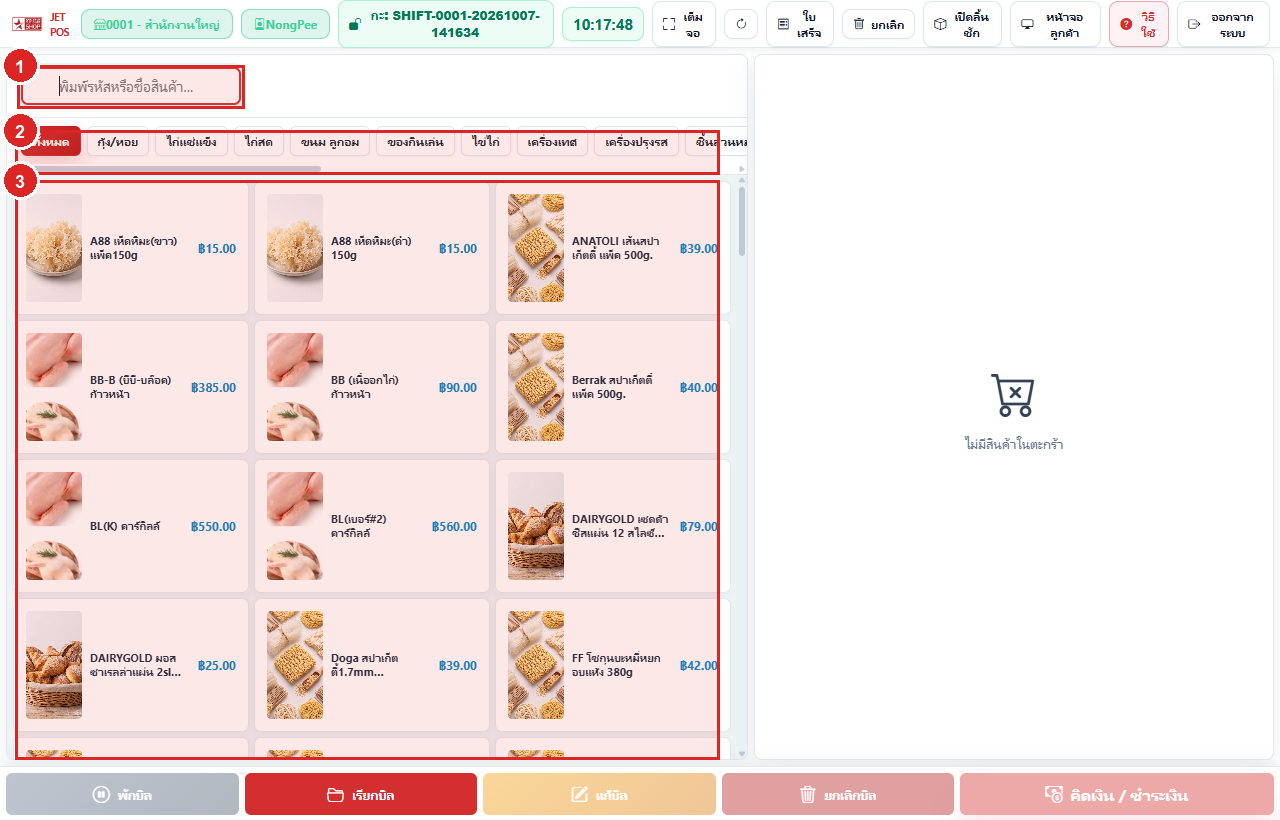
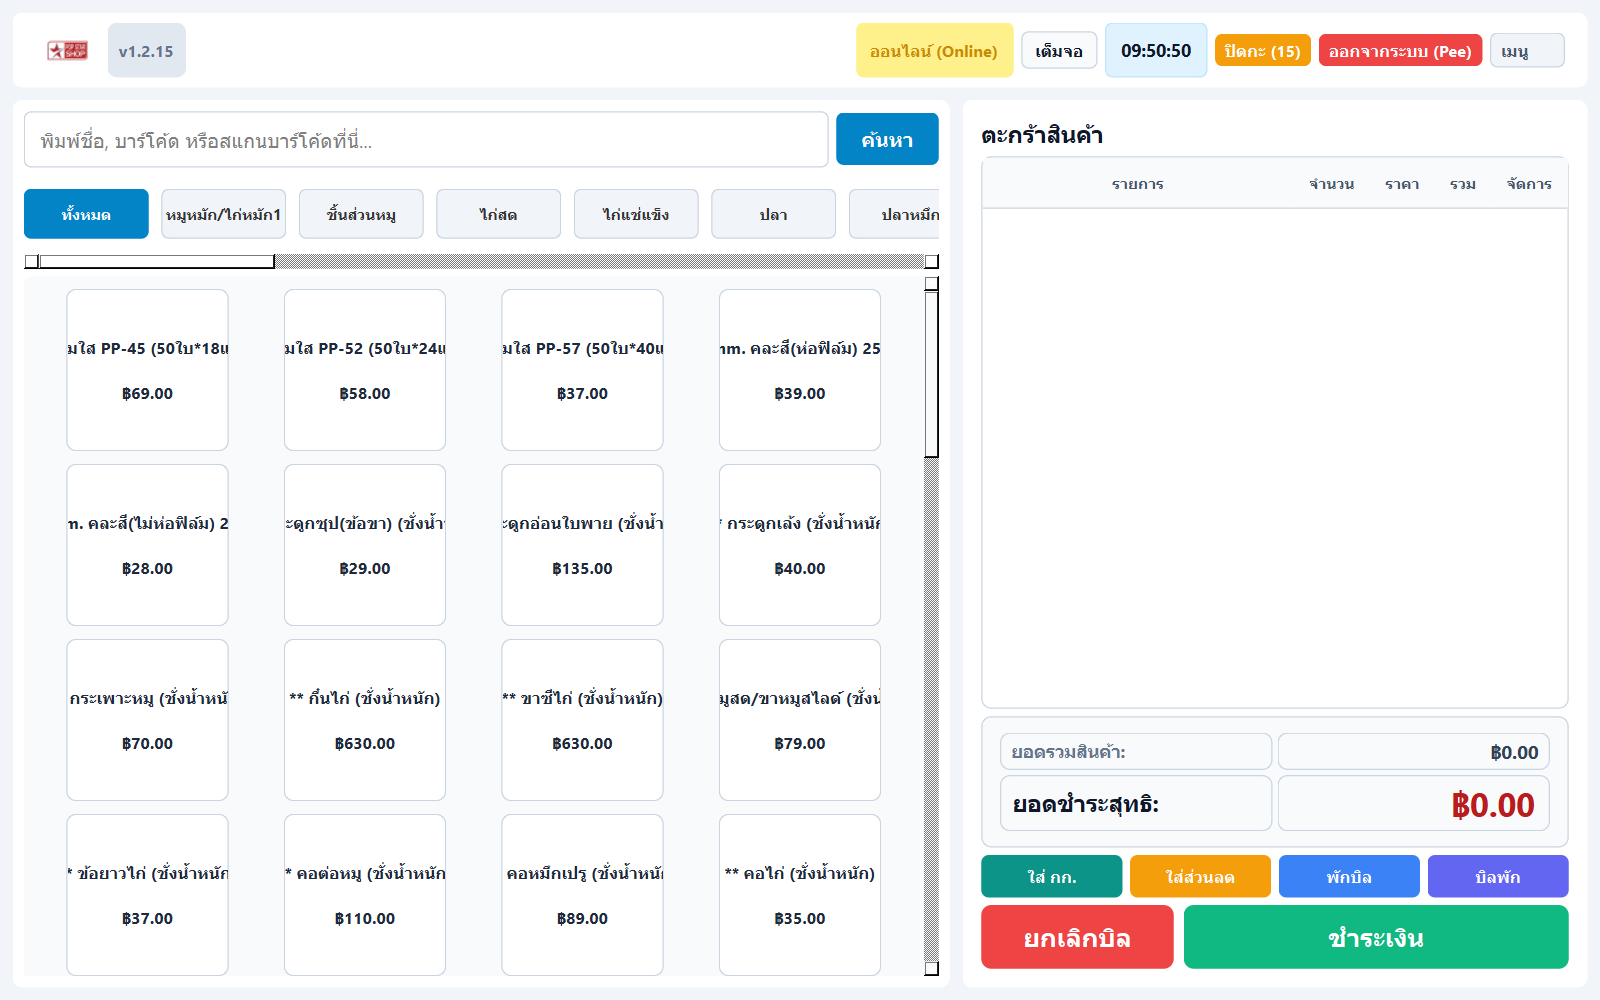
docs: replace all old manual images with real screenshots of the current new app

diff --git a/README.md b/README.md
@@ -44,7 +44,7 @@
 
 ## คู่มือและวิธีติดตั้งโปรแกรม (Installation Guide)
 
-สามารถดาวน์โหลดตัวติดตั้งล่าสุดได้จากเมนู [Releases (v1.2.15)](https://github.com/nongpee321/posCentral/releases/tag/v1.2.15)
+สามารถดาวน์โหลดไฟล์ติดตั้งเวอร์ชันล่าสุดได้จากเมนู [Releases (v1.2.15)](https://github.com/nongpee321/posCentral/releases/tag/v1.2.15)
 
 ### ตัวเลือกที่ 1: ติดตั้งแบบตัวติดตั้งอัตโนมัติ (.exe Setup) — แนะนำสำหรับเครื่องหน้าร้าน
 
@@ -52,7 +52,7 @@
 2. ดับเบิลคลิกเปิดไฟล์ติดตั้ง
 3. เลือกตำแหน่งติดตั้ง (ค่าเริ่มต้น: `C:\PopCentral POS` หรือ `D:\PopCentral POS`)
 4. กดปุ่ม **Extract** หรือ **ติดตั้ง**
-5. ตัวติดตั้งจะวางไฟล์ระบบและสร้างทางลัดไอคอน **PopCentral POS** บนหน้าจอ Desktop ให้ทันที
+5. ตัวติดตั้งจะทำการวางไฟล์และสร้างทางลัดไอคอน **PopCentral POS** บนหน้าจอ Desktop ให้ทันที
 
 ### ตัวเลือกที่ 2: ใช้งานแบบ Portable (.zip ไม่ต้องติดตั้ง)
 
@@ -62,57 +62,106 @@
 
 ---
 
-## ขั้นตอนการเริ่มใช้งานและตั้งค่าครั้งแรก (Step-by-Step Setup)
+## คู่มือการใช้งานโปรแกรมและรูปภาพขั้นตอนการทำงาน (User Manual & Screenshots)
 
-### ขั้นตอนที่ 1: ลงทะเบียนเชื่อมต่อเครื่องจุดขายกับระบบ ERP (First-time Device Token Setup)
+### 1. การลงทะเบียนเครื่องจุดขายครั้งแรก (First-time Device Token Setup)
 
-เมื่อเปิดโปรแกรมครั้งแรกบนเครื่องใหม่ ระบบจะเปิดหน้าต่าง **ลงทะเบียนเครื่องจุดขาย (POS Terminal Setup)**:
+เมื่อเปิดโปรแกรมครั้งแรกบนเครื่องใหม่ ระบบจะเปิดหน้าต่าง **ลงทะเบียนเครื่องจุดขาย**:
 
-![ขั้นตอนที่ 1: เชื่อมต่อเครื่อง POS กับ ERP](assets/manual/install_step1_token.png)
+![01. หน้าต่างลงทะเบียนเครื่องจุดขาย](assets/manual/01_pos_first_setup.png)
 
-1. **รหัสเครื่องจุดขาย (Device Token)**: นำรหัส Token ที่ได้รับจากผู้ดูแลระบบ ERP สำหรับเครื่องสาขานั้นๆ มาวางลงในช่องนี้
+1. **รหัสเครื่องจุดขาย (Device Token)**: กรอกรหัส Token ที่ได้รับจากผู้ดูแลระบบ ERP
 2. **ชื่อผู้ใช้งาน (Username)**: ใส่ชื่อผู้ใช้แคชเชียร์ เช่น `Pee`
-3. **รหัส PIN แคชเชียร์**: ใส่รหัส PIN ตัวเลข 4-6 หลัก
-4. กดปุ่ม **"เข้าสู่ระบบ"** (หรือกดปุ่ม "ตั้งค่า ERP" หากต้องการระบุ Server URL เช่น `https://erp.popstarcenter.com`)
-5. ระบบจะดึงฐานข้อมูลสินค้า สาขา และโปรโมชั่นจาก ERP ลงสู่เครื่องโดยอัตโนมัติ
+3. **รหัส PIN แคชเชียร์**: กำหนดรหัส PIN ตัวเลข 4-6 หลัก
+4. กดปุ่ม **"เข้าสู่ระบบ"** (หรือกดปุ่ม "ตั้งค่า ERP" หากต้องการตรวจสอบ URL เช่น `https://erp.popstarcenter.com`)
+5. ระบบจะดึงฐานข้อมูลสินค้า สาขา และโปรโมชั่นจาก ERP ลงสู่เครื่องอัตโนมัติ
 
 ---
 
-### ขั้นตอนที่ 2: การเข้าสู่ระบบแคชเชียร์ประจำวัน (Cashier PIN Login)
+### 2. การเข้าสู่ระบบแคชเชียร์ประจำวัน (Daily Cashier PIN Login)
 
-สำหรับการเข้างานประจำวันหรือสลับกะพนักงาน:
+สำหรับการเข้างานประจำวันหรือสลับกะพนักงานขาย:
 
-![ขั้นตอนที่ 2: เข้าสู่ระบบด้วยรหัส PIN](assets/manual/install_step2_login.png)
+![02. หน้าต่างเข้าสู่ระบบด้วยรหัส PIN](assets/manual/02_pos_cashier_login.png)
 
-1. ระบบจะจำชื่อผู้ใช้งานหรือรหัสพนักงานเดิมให้อัตโนมัติ
+1. ระบบจะจดจำชื่อผู้ใช้งานเดิมให้อัตโนมัติ
 2. กรอก **รหัส PIN แคชเชียร์** (เช่น `1234` หรือ `0000`)
-3. กดปุ่ม **"เข้าสู่ระบบ"** (หรือกดปุ่ม `Enter` บนคีย์บอร์ด)
+3. กดปุ่ม **"เข้าสู่ระบบ"** หรือกดปุ่ม `Enter` บนคีย์บอร์ด
 
 ---
 
-### ขั้นตอนที่ 3: เปิดกะขายและบันทึกเงินทอนเริ่มต้น (Open Shift)
+### 3. การเปิดกะขายสินค้า (Open Shift)
 
-ก่อนเริ่มคิดเงินบิลแรกของวัน แคชเชียร์ต้องทำการเปิดกะ:
+ก่อนเริ่มคิดเงินบิลแรกของวัน แคชเชียร์ต้องเปิดกะขาย:
 
-![ขั้นตอนที่ 3: เปิดกะขายสินค้า](assets/manual/install_step3_shift.png)
+![03. หน้าต่างเปิดกะขายสินค้า](assets/manual/03_pos_open_shift.png)
 
 1. ตรวจสอบชื่อสาขาและชื่อแคชเชียร์ให้ถูกต้อง
-2. ระบุยอด **เงินทอนเริ่มต้น** ในลิ้นชัก (เช่น `1000` บาท หรือ `0` หากไม่มีเงินทอน)
-3. ใส่หมายเหตุเปิดกะ (ถ้ามี)
-4. กดปุ่ม **"เปิดกะ"** เพื่อเริ่มขายสินค้าทันที
+2. ระบุยอด **เงินทอนเริ่มต้น** ในลิ้นชักเก็บเงิน (เช่น `1000` บาท หรือ `0` หากไม่มีเงินทอน)
+3. กดปุ่ม **"เปิดกะ"** เพื่อเริ่มขายสินค้า
 
 ---
 
-### ขั้นตอนที่ 4: หน้าต่างขายสินค้าและคิดเงิน (POS Main Screen)
+### 4. หน้าต่างขายสินค้าหลัก (Main Sales Screen & Catalog)
 
-เมื่อเปิดกะเรียบร้อย ระบบจะเข้าสู่หน้าต่างการขายหลัก:
+หน้าจอหลักสำหรับการขายสินค้า แคตตาล็อกแบ่งตามหมวดหมู่ชัดเจน:
 
-![ขั้นตอนที่ 4: หน้าจอขายสินค้าหลัก](assets/manual/pos.png)
+![04. หน้าต่างขายสินค้าหลัก](assets/manual/04_pos_main_window.png)
 
-1. **ค้นหาและสแกนสินค้า**: ยิงบาร์โค้ดสินค้า ป้ายชั่งน้ำหนัก หรือคลิกเลือกสินค้าตามหมวดหมู่
-2. **ตะกร้าสินค้า (ขวา)**: ตรวจสอบรายการ จำนวน และราคา รวมทั้งกดปุ่มใส่ส่วนลดบิล
-3. **รับชำระเงิน**: กดปุ่ม **"คิดเงิน / ชำระเงิน"** เพื่อเลือกวิธีชำระ (เงินสด / QR Code / เงินสด+โอน)
-4. ระบบจะบันทึกบิลลงเครื่อง พิมพ์ใบเสร็จความร้อน ลิ้นชักเด้ง และซิงก์ข้อมูลขึ้นระบบ ERP โดยอัตโนมัติ
+1. **แถบสถานะด้านบน**: แสดงเวอร์ชัน `v1.2.15`, สถานะ `ออนไลน์ (Online)`, นาฬิกา, ปุ่มปิดกะ, และปุ่มเมนู
+2. **ค้นหาและสแกนสินค้า**: ยิงบาร์โค้ด หรือพิมพ์ค้นหาชื่อสินค้า/รหัสสินค้า
+3. **หมวดหมู่สินค้า**: เลือกดูสินค้าตามประเภท เช่น หมูหมัก, ชิ้นส่วนหมู, ไก่สด, ไก่แช่แข็ง, ปลา, อาหารทะเล ฯลฯ
+
+---
+
+### 5. ตะกร้าสินค้าและการคำนวณส่วนลดบิล (Cart & Discount Calculation)
+
+เมื่อเลือกสินค้าลงตะกร้า ระบบจะคำนวณยอดรวม และรองรับการใส่ส่วนลด:
+
+![05. ตะกร้าสินค้าและการคิดส่วนลด](assets/manual/05_pos_cart_and_discount.png)
+
+1. **รายการในตะกร้า**: แสดงลำดับ, รายการ, จำนวน (กก./แพ็ค), ราคาต่อหน่วย, และราคารวม
+2. **ยอดรวมสินค้า**: แสดงยอดรวมก่อนหักส่วนลด
+3. **ส่วนลด**: แสดงยอดส่วนลดที่ได้รับเป็นตัวอักษรสีแดงชัดเจน
+4. **ยอดชำระสุทธิ**: คำนวณยอดเงินที่ลูกค้าต้องจ่ายจริงหลังหักส่วนลด
+
+---
+
+### 6. หน้าต่างใส่ส่วนลดบิล (Discount Dialog)
+
+กดปุ่มสีส้ม **"ใส่ส่วนลด"** เพื่อเปิดหน้าต่างกำหนดส่วนลด:
+
+![06. หน้าต่างกำหนดส่วนลดบิล](assets/manual/06_pos_discount_dialog.png)
+
+1. เลือกประเภทส่วนลด: **บาท (฿)** หรือ **เปอร์เซ็นต์ (%)**
+2. ระบุจำนวนเงินส่วนลด
+3. ระบบจะคำนวณยอดสุทธิที่ต้องชำระให้ดูสดทันที
+4. กดปุ่ม **"ตกลง / บันทึกส่วนลด"**
+
+---
+
+### 7. หน้าต่างคิดเงินและรับชำระเงิน (Payment Screen)
+
+กดปุ่มสีเขียว **"ชำระเงิน"** เพื่อเข้าสู่หน้าต่างรับเงิน:
+
+![07. หน้าต่างรับชำระเงิน](assets/manual/07_pos_payment_screen.png)
+
+1. **เลือกช่องทางชำระเงิน**: **เงินสด** หรือ **QR Code PromptPay**
+2. **ระบุยอดเงินสดที่รับ**: กดปุ่มลัด (100, 500, 1,000) หรือคีย์ตัวเลข
+3. **คำนวณเงินทอนอัตโนมัติ**: ระบบแสดงยอดเงินทอนสีแดงชัดเจน
+4. กดปุ่ม **"ยืนยันชำระเงิน (Enter)"** ระบบจะพิมพ์ใบเสร็จความร้อน ลิ้นชักเด้ง และบันทึกยอดขายทันที
+
+---
+
+### 8. ตรวจสอบสถานะการส่งข้อมูลเข้า ERP (Sync Monitor)
+
+หน้าต่างตรวจสอบบิลขายและการส่งข้อมูลเข้าเซิร์ฟเวอร์ส่วนกลาง:
+
+![08. หน้าต่างตรวจสอบการ Sync บิล](assets/manual/08_pos_pending_sync.png)
+
+1. **ระบบ Auto-Sync**: บิลขายจะถูกส่งเข้า ERP เซิร์ฟเวอร์แบบ Real-time ในเบื้องหลัง
+2. **ปุ่มสั่ง Sync ทันที (Retry Sync)**: สำหรับสั่งส่งข้อมูลซ้ำกรณีเน็ตหลุด
+3. **ปุ่มลบบิลค้าง (Discard)**: สำหรับจัดการบิลกรณีมีข้อผิดพลาด
 
 ---
 
